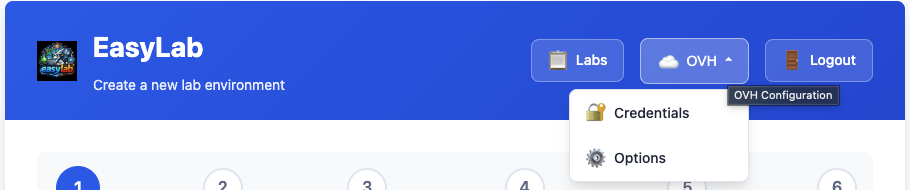
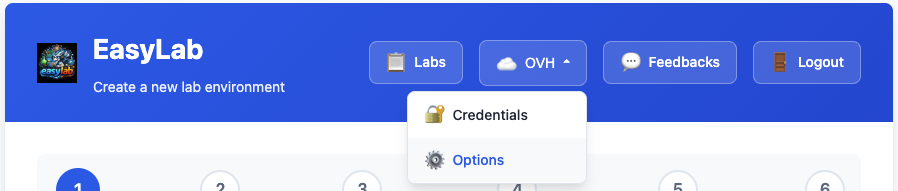
📑 Update docs for feedback feature

diff --git a/docs/student.md b/docs/student.md
@@ -83,3 +83,5 @@ After completing a lab session, you can share your experience via the **Feedback
 * **Comments & Suggestions** — Free-text field (max 2000 characters) for any additional remarks.
 
 Click **Submit Feedback** to send your response. A confirmation message appears on success. The form resets automatically so you can submit feedback for another lab if needed.
+
+![Student feedback form](screens/feedback.png){width=45%}

diff --git a/docs/admin.md b/docs/admin.md
@@ -156,3 +156,5 @@ The page shows:
     * Submission date and time
 
 If no feedback has been submitted yet, an empty state is displayed.
+
+![Admin feedback](screens/feedbacks.png){width=45%}
